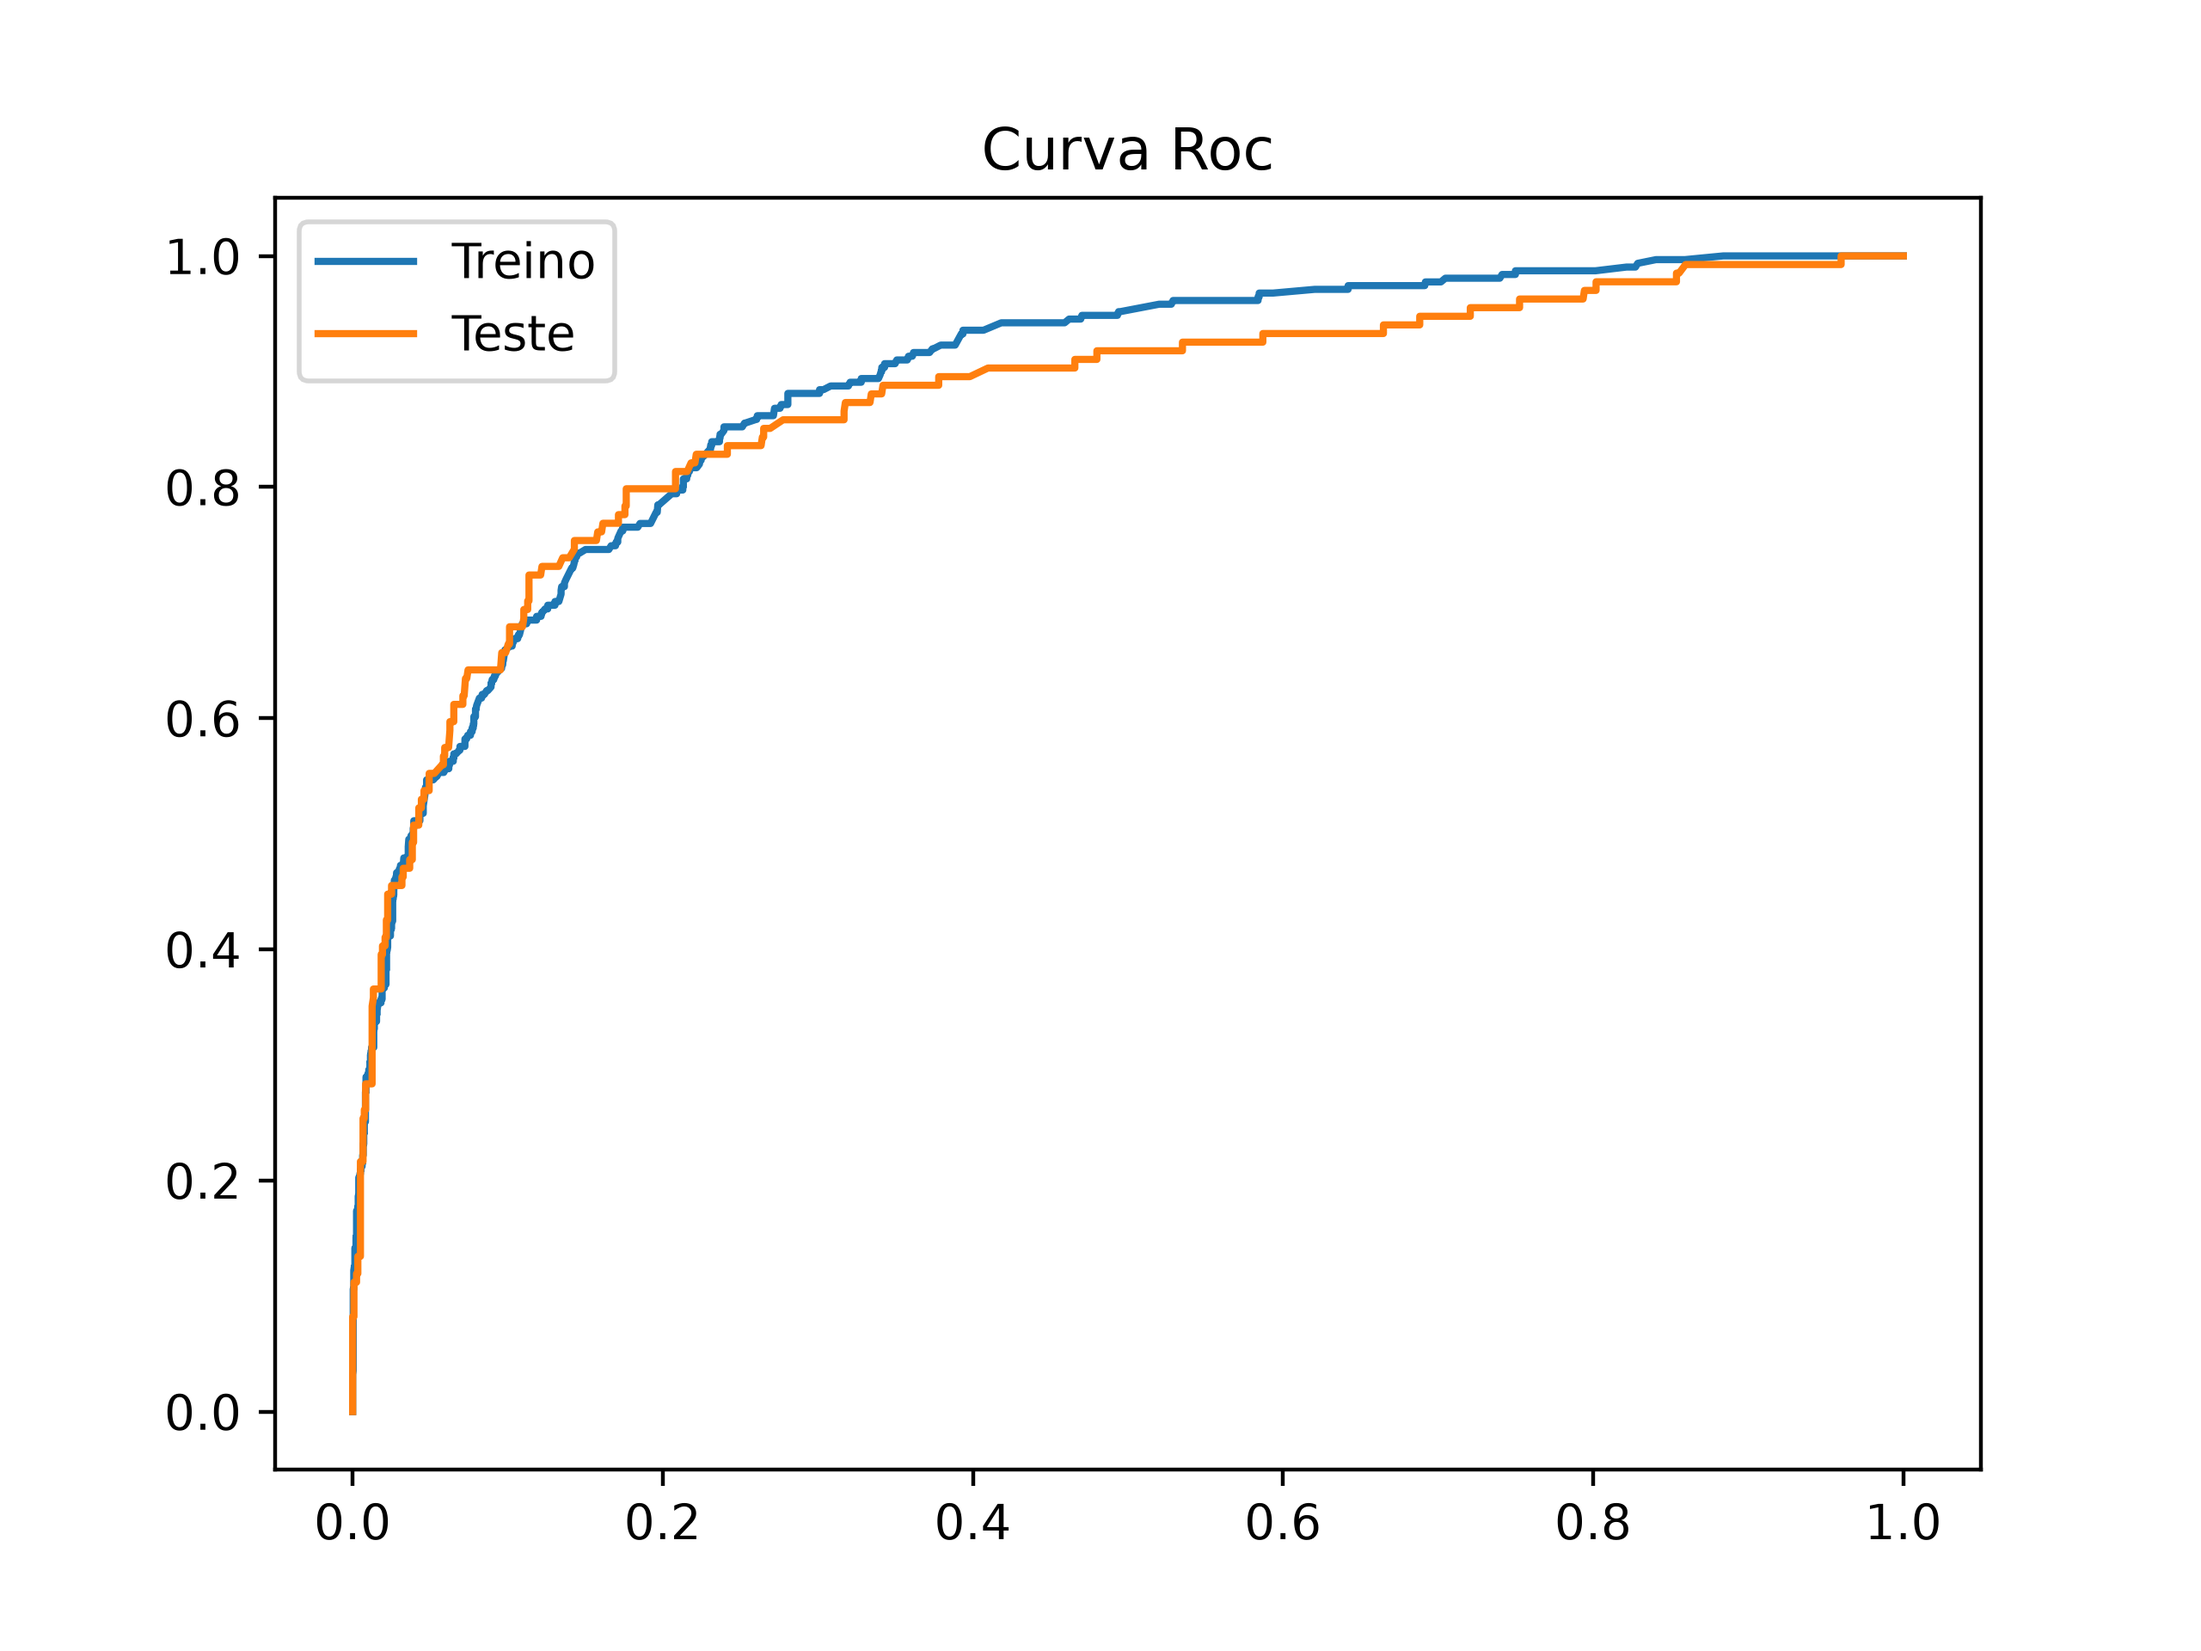
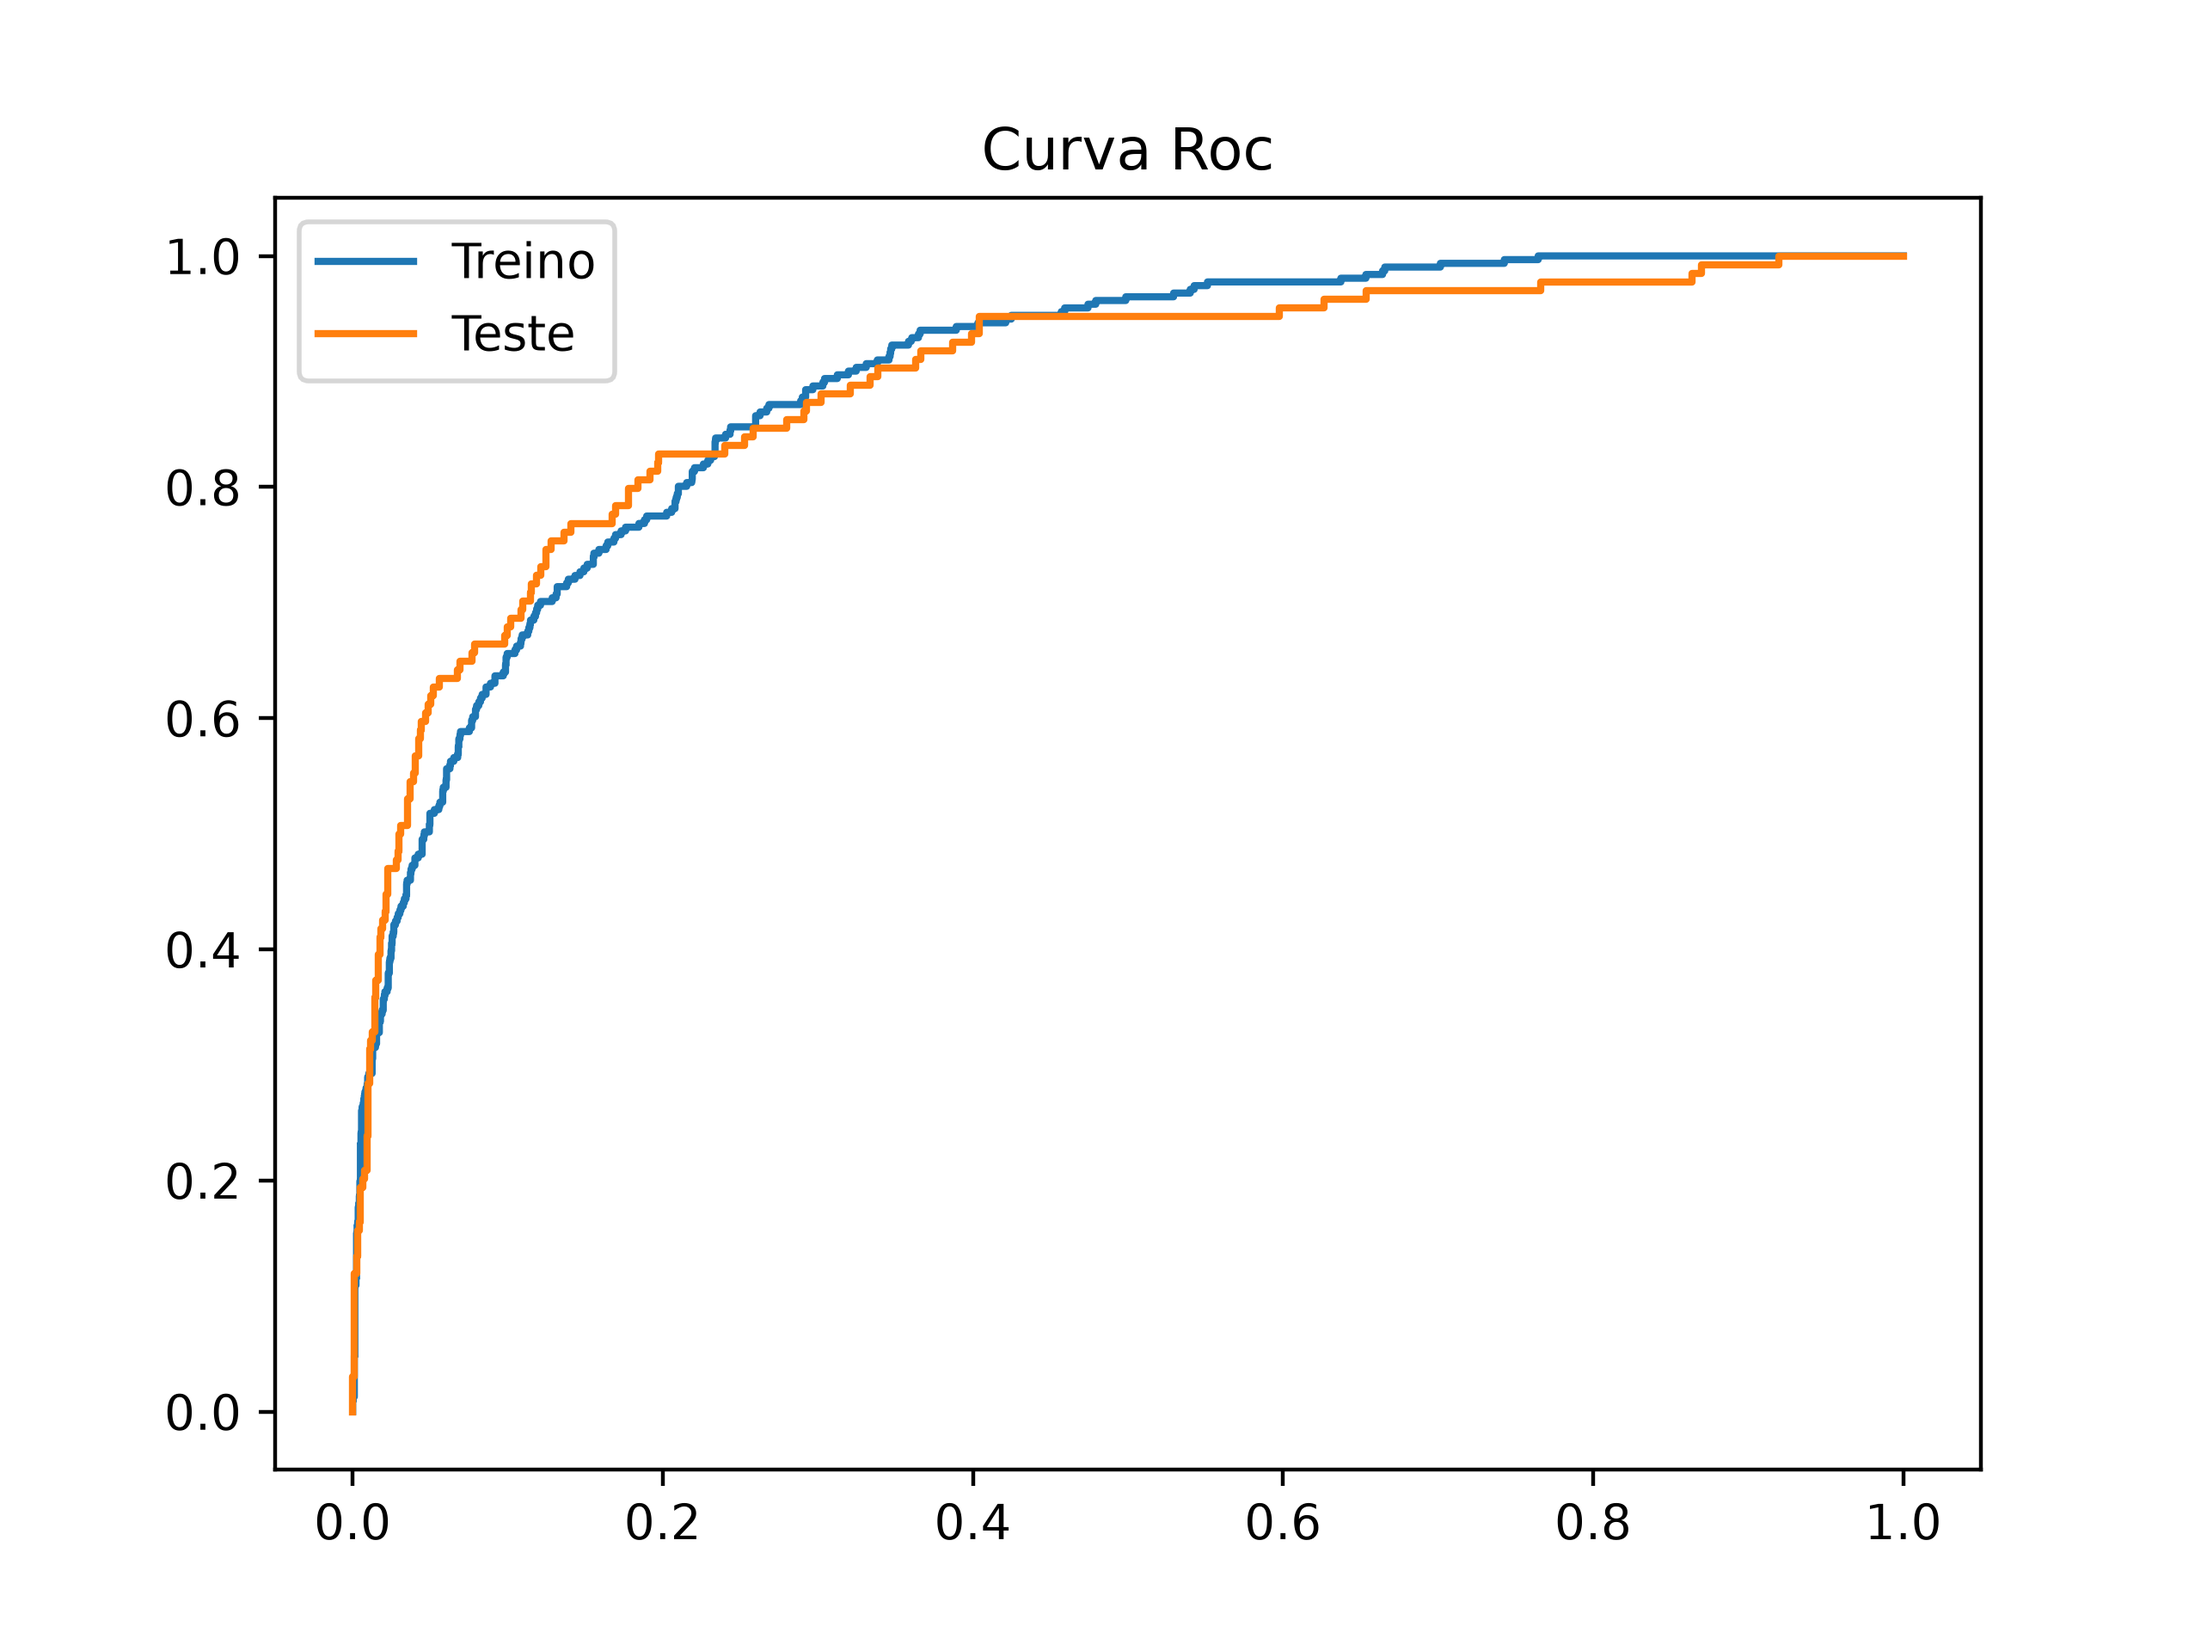
gridserach e mlflow'

diff --git a/src/analytics/train.py b/src/analytics/train.py
@@ -5,6 +5,7 @@ from pathlib import Path
 import sqlite3
 import mlflow
 import matplotlib.pyplot as plt
+from sklearn import model_selection
 #%%
 mlflow.set_tracking_uri('http://localhost:5000')
 mlflow.set_experiment(experiment_id=1)
@@ -120,8 +121,13 @@ onehot = encoding.OneHotEncoder(variables=cat_features)
 from sklearn import tree
 from sklearn import ensemble
 #model = tree.DecisionTreeClassifier(random_state=42,min_samples_leaf=50)
-model = ensemble.AdaBoostClassifier(random_state=42,n_estimators=150)
+model = ensemble.RandomForestClassifier(random_state=42,n_estimators=150)
 #%%
+params ={
+    'n_estimators':[100,200,400,500,1000],
+    'min_samples_leaf':[10,20,30,50,75,100]
+}
+grid = model_selection.GridSearchCV(model,param_grid=params,cv=3,scoring='roc_auc',refit=True,verbose=3,n_jobs=10)
 #Criando o pipeline
 
 from sklearn import pipeline
@@ -133,7 +139,7 @@ with mlflow.start_run() as r:
                                             ('Imputacao de nao usuario',input_new),
                                             ('Inputacao de 1000',input_1000),
                                             ('Onehot',onehot),
-                                            ('Algoritmo',model)])
+                                            ('Algoritmo',grid)])
     model_pipeline.fit(X_train,y_train)
 
 

diff --git a/src/analytics/predict.py b/src/analytics/predict.py
@@ -15,7 +15,7 @@ engine = sqlalchemy.create_engine(
     creator=lambda: sqlite3.connect(str(db_path))
 )
 #%%
-model = mlflow.sklearn.load_model("models:///model_fiel/1")
+model = mlflow.sklearn.load_model("models:///model_fiel/2")
 #%%
 model
 #%%
@@ -25,7 +25,7 @@ data['predict']=predict
 
 # %%
 
-DATA
+data
 # %%
 
 # %%
